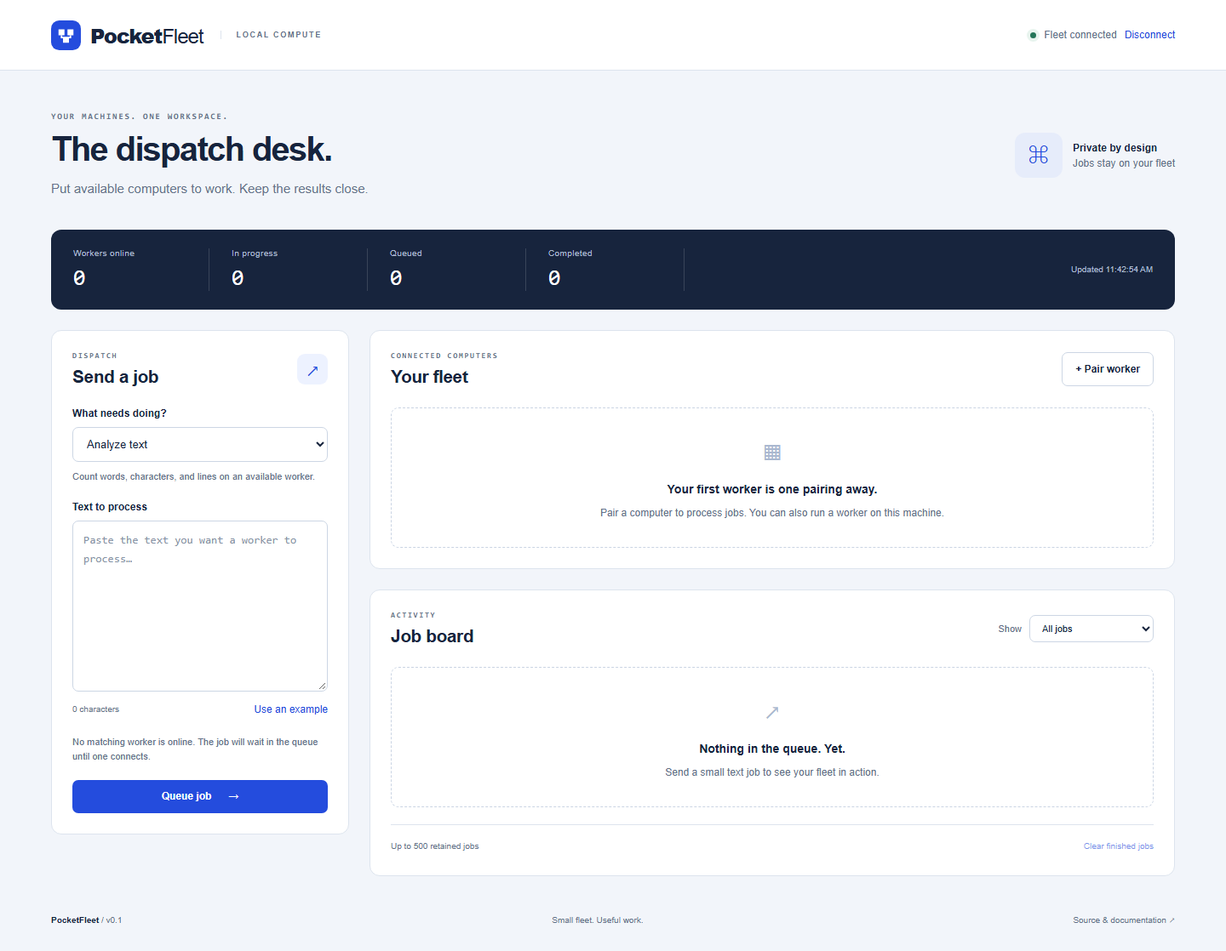
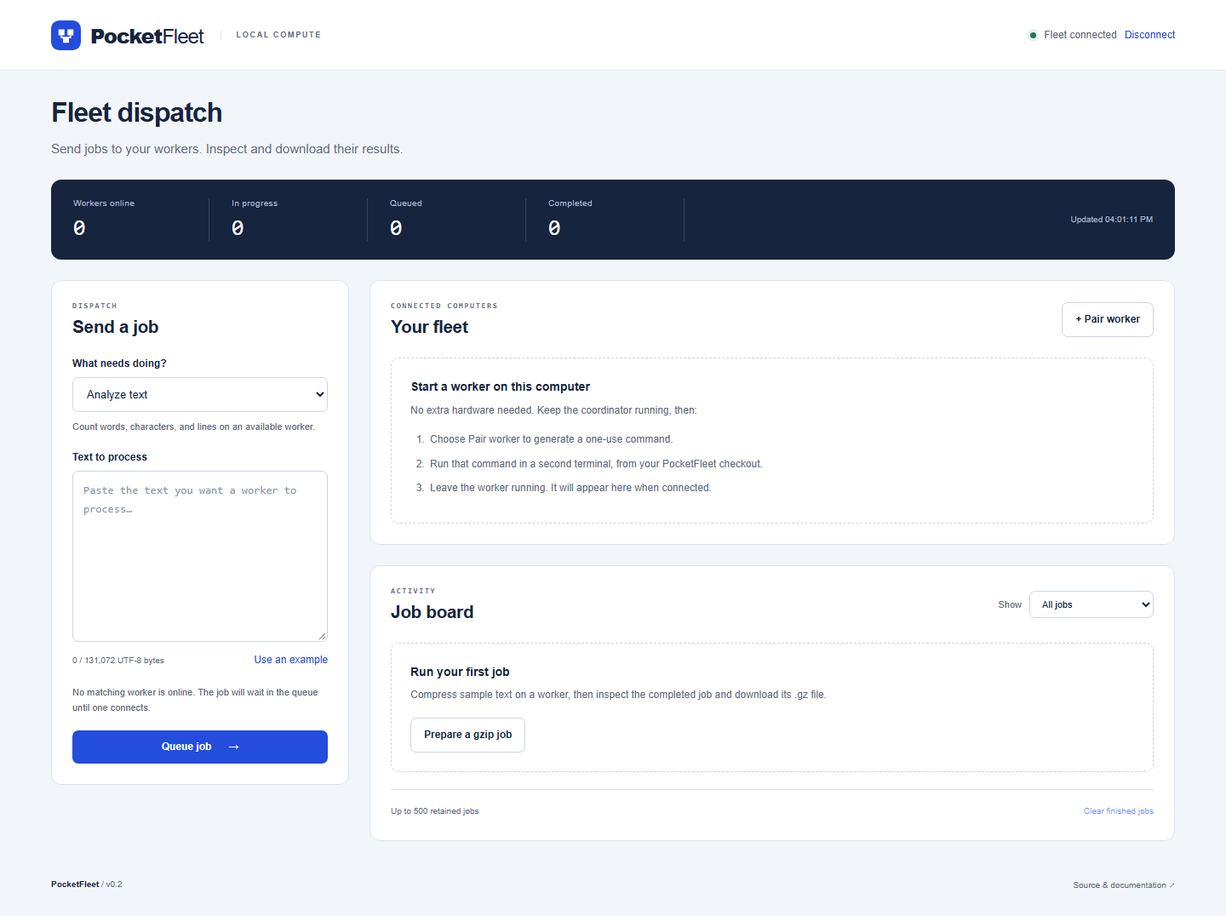
ui: guide first worker setup and real gzip jobs

diff --git a/public/style.css b/public/style.css
@@ -1,2 +1,6 @@
-:root{font-family:Arial,Helvetica,sans-serif;color:#17243d;background:#f2f5fa;font-synthesis:none;--ink:#17243d;--muted:#5d6a80;--blue:#244cdd;--line:#dde4ee;--surface:#fff;--soft:#edf2ff;--green:#247558;--red:#b63743}*{box-sizing:border-box}body{margin:0}button,input,select,textarea{font:inherit}button,a,input,select,textarea{touch-action:manipulation}button{cursor:pointer}button:disabled{cursor:wait;opacity:.6}a{color:var(--blue)}button:focus-visible,a:focus-visible,input:focus-visible,select:focus-visible,textarea:focus-visible,pre:focus-visible{outline:3px solid #b4c6ff;outline-offset:3px}[hidden]{display:none!important}.skip{position:absolute;left:1rem;top:-5rem;background:white;padding:1rem;z-index:10}.skip:focus{top:1rem}.topbar{height:83px;padding:0 max(30px,calc((100vw - 1320px)/2));display:flex;align-items:center;justify-content:space-between;background:white;border-bottom:1px solid var(--line);gap:20px}.brand{display:flex;align-items:center;gap:11px;font-size:24px;font-weight:800;letter-spacing:-1px;text-decoration:none;color:var(--ink)}.brand-light{font-weight:400}.edition{font-size:9px;letter-spacing:1.7px;font-weight:700;border-left:1px solid var(--line);margin-left:9px;padding-left:18px;color:var(--muted)}.connection{display:flex;align-items:center;gap:9px;font-size:12px;color:var(--muted)}.dot{width:7px;height:7px;background:#aab5c6;border-radius:50%;display:inline-block;flex-shrink:0}.dot.connected{background:var(--green);box-shadow:0 0 0 4px #e8f4ee}.dot.warning{background:#c5862c}main{max-width:1380px;padding:0 30px;margin:auto}.page-heading{display:flex;align-items:center;justify-content:space-between;margin:48px 0 36px;gap:20px}.eyebrow{font-family:Consolas,'Courier New',monospace;font-size:10px;letter-spacing:1.7px;font-weight:700;color:var(--muted);margin:0 0 10px}h1{font-size:40px;letter-spacing:-1.7px;line-height:1.1;margin:0 0 13px}h2{font-size:21px;letter-spacing:-.5px;margin:0;font-weight:700}.lead{color:var(--muted);font-size:15px;margin:0;line-height:1.6}.local-label{display:flex;gap:12px;align-items:center;font-size:12px}.local-label strong,.local-label span:not(.orbit-icon){display:block}.local-label strong{font-weight:600;margin-bottom:4px}.local-label span:not(.orbit-icon){color:var(--muted)}.orbit-icon{background:#e6ecfa;padding:12px 15px;border-radius:12px;font-size:24px;color:var(--blue)}.notice{border:1px solid #c8d6f8;background:#eaf0ff;padding:14px 18px;margin:0 0 20px;border-radius:8px;font-size:13px;line-height:1.5;overflow-wrap:anywhere}.notice.error{color:#882533;background:#fff1f2;border-color:#efc2c7}.login-layout{display:grid;grid-template-columns:1fr 1fr;background:white;border:1px solid var(--line);border-radius:16px;overflow:hidden;min-height:450px}.login-copy{padding:48px 54px}.login-copy h2{font-size:32px;line-height:1.2;letter-spacing:-1px}.login-copy>p:not(.eyebrow){font-size:14px;line-height:1.7;max-width:360px;color:var(--muted);margin:18px 0 26px}form label,label[for=result-output]{display:block;font-size:12px;font-weight:700;margin:20px 0 9px}input,select,textarea{width:100%;border:1px solid #ccd6e4;border-radius:7px;background:white;color:var(--ink);padding:11px 12px;font-size:13px}textarea{resize:vertical;min-height:140px;line-height:1.7;font-family:Consolas,'Courier New',monospace}textarea::placeholder,input::placeholder{color:#8793a6}#login-form .primary{margin-top:13px;min-width:200px}.primary,.secondary{border:0;border-radius:7px;padding:11px 15px;font-size:12px;font-weight:700;display:inline-flex;align-items:center;justify-content:center;gap:20px;line-height:1.4}.primary{color:white;background:var(--blue)}.primary:hover{background:#183ab3}.secondary{border:1px solid #ccd6e4;background:white;color:var(--ink)}.secondary:hover{background:#f2f5fa}.text-button{border:0;background:none;color:var(--blue);font-size:12px;padding:5px 0}.text-button:hover{text-decoration:underline}.field-help{color:var(--muted);font-size:11px;line-height:1.65;margin:8px 0 0}.network-intro{background:#edf2fc;display:flex;flex-direction:column;align-items:center;justify-content:center;padding:38px;position:relative;background-image:radial-gradient(#cdd8ee .8px,transparent .8px);background-size:16px 16px}.network-intro>p{font-size:12px;text-align:center;line-height:1.7;color:var(--muted);margin-top:28px;background:#edf2fc;padding:4px 10px}.network-node{width:150px;background:white;border:1px solid #cdd8ee;border-radius:12px;display:flex;align-items:center;flex-direction:column;padding:20px;gap:8px;box-shadow:0 5px 16px #153b7610}.network-node strong{font-size:13px}.network-node>span:last-child{font-size:10px;color:var(--muted)}.coordinator-node{border-color:var(--blue)}.node-symbol{color:var(--blue);font-size:25px}.network-path{width:1px;height:35px;background:#99addc}.network-workers{display:flex;gap:32px;border-top:1px solid #99addc;padding-top:25px}.summary-strip{background:var(--ink);color:white;border-radius:12px;display:flex;align-items:center;padding:22px 26px;gap:0;margin-bottom:24px}.summary-strip>div{min-width:160px;padding-right:26px;margin-right:26px;border-right:1px solid #ffffff26}.summary-label{display:block;font-size:10px;letter-spacing:.4px;color:#adbbd1;margin-bottom:8px}.summary-strip strong{font-size:26px;font-weight:500;font-family:Consolas,monospace}.updated{margin-left:auto;font-size:10px;color:#adbbd1;line-height:1.6;text-align:right}.workspace-grid{display:grid;grid-template-columns:350px minmax(0,1fr);gap:24px;align-items:start}.panel{background:white;border:1px solid var(--line);border-radius:12px;padding:24px;min-width:0}.panel-heading{display:flex;align-items:center;justify-content:space-between;gap:12px;margin-bottom:24px}.panel-heading .eyebrow{font-size:9px;margin-bottom:8px}.composer{grid-row:span 2}.small-icon{width:36px;height:36px;display:grid;place-items:center;background:var(--soft);color:var(--blue);font-size:22px;border-radius:9px}.full{width:100%}.compose-meta{display:flex;align-items:center;justify-content:space-between;font-size:10px;color:var(--muted);margin-top:5px}.capability-hint{font-size:11px;line-height:1.6;color:var(--muted);margin:18px 0}.workers{display:grid;grid-template-columns:repeat(2,minmax(0,1fr));gap:12px}.worker{border:1px solid var(--line);border-radius:9px;padding:17px;min-width:0;position:relative}.worker-top{display:flex;gap:11px;align-items:center}.worker-icon{display:grid;place-items:center;width:34px;height:34px;background:#f0f3f9;font-size:20px;border-radius:7px;color:var(--muted);flex-shrink:0}.worker h3{font-size:13px;margin:0 0 5px;overflow-wrap:anywhere}.worker .worker-state{font-size:10px;color:var(--muted)}.worker .worker-state .dot{width:6px;height:6px;margin-right:5px}.tags{display:flex;flex-wrap:wrap;gap:5px;margin-top:16px}.tag{font-family:Consolas,monospace;font-size:9px;border:1px solid #e2e7ee;border-radius:4px;padding:4px 6px;color:var(--muted);background:#f8fafd}.worker-footer{display:flex;justify-content:space-between;align-items:center;gap:8px;margin-top:14px;color:var(--muted);font-size:10px}.worker-footer .text-button{font-size:10px;color:#8c5b64}.empty{grid-column:1/-1;text-align:center;border:1px dashed #cad4e3;border-radius:9px;padding:30px 20px;color:var(--muted);font-size:12px;line-height:1.7}.empty strong{display:block;color:var(--ink);font-size:14px;margin:8px 0 5px}.empty .empty-icon{font-size:27px;color:#aab8d0}.pairing{padding:18px;background:#f1f5ff;border:1px solid #d5e0fd;border-radius:8px;margin-top:16px;font-size:12px;line-height:1.6}.pairing-heading{display:flex;justify-content:space-between;gap:10px}.pairing p{color:var(--muted)}pre{white-space:pre-wrap;overflow-wrap:anywhere;word-break:break-word;font:11px/1.8 Consolas,'Courier New',monospace;background:#17243d;color:#dfe8fa;padding:16px;border-radius:7px;max-height:400px;overflow:auto}.filter-label{display:flex;align-items:center;gap:9px;font-size:11px;color:var(--muted)}.filter-label select{width:auto;font-size:11px;padding:8px 28px 8px 10px}.jobs{display:flex;flex-direction:column;gap:0}.job{display:grid;grid-template-columns:minmax(0,1fr) auto auto;align-items:center;gap:14px;padding:16px 0;border-top:1px solid #edf0f5}.job:first-child{border-top:0;padding-top:0}.job:last-child{padding-bottom:0}.job-title{font-size:12px;font-weight:700;margin-bottom:6px}.job-subtitle{font:10px/1.5 Consolas,monospace;color:var(--muted);overflow-wrap:anywhere}.job-actions{display:flex;align-items:center;gap:12px}.job-actions button{font-size:11px}.status{display:inline-block;font-size:9px;padding:5px 8px;border-radius:5px;background:#edf1f7;color:#64738a;text-transform:uppercase;letter-spacing:.5px;white-space:nowrap}.status.completed,.status.succeeded{background:#e8f4ee;color:#247558}.status.running{background:#eaf0ff;color:#244cdd}.status.failed{background:#fff0f2;color:#ab3548}.status.cancelled{background:#f5eff3;color:#8c5b78}footer{display:flex;align-items:center;justify-content:space-between;gap:16px;color:var(--muted);font-size:10px;padding:30px 0;margin-top:14px}footer>span:first-child{font-weight:700;color:var(--ink)}.footer-version{font-weight:400;color:var(--muted)}footer a{color:var(--muted);text-decoration:none}footer a:hover{text-decoration:underline}dialog{border:1px solid var(--line);border-radius:14px;padding:28px;width:min(680px,calc(100vw - 32px));max-height:90vh;color:var(--ink);box-shadow:0 20px 100px #0b1c3c33}dialog::backdrop{background:#14234080}.dialog-heading{display:flex;justify-content:space-between;gap:15px;align-items:center;margin-bottom:24px}.result-meta{display:grid;grid-template-columns:90px minmax(0,1fr);gap:10px;font-size:12px}.result-meta dt{color:var(--muted)}.result-meta dd{margin:0;overflow-wrap:anywhere}.result-meta .status{margin-top:-4px}#result-output{min-height:80px;font-size:12px}.danger{color:var(--red)}@media(min-width:1500px){.login-copy{padding:58px 68px}}@media(max-width:1000px){.summary-strip>div{min-width:110px;margin-right:18px;padding-right:18px}.workspace-grid{grid-template-columns:300px minmax(0,1fr);gap:16px}.panel{padding:20px}.workers{grid-template-columns:1fr}.login-copy{padding:36px}.network-workers{gap:15px}.network-node{width:130px}.edition{display:none}.job{grid-template-columns:minmax(0,1fr) auto}.job-actions{grid-column:1/-1;justify-content:flex-end}.updated{display:none}}@media(max-width:700px){.topbar{height:72px;padding:0 20px}.brand{font-size:21px}.brand img{width:30px;height:30px}.connection{font-size:10px;gap:7px}main{padding:0 18px}.page-heading{margin:32px 0 25px}h1{font-size:32px}.lead{font-size:13px}.local-label{display:none}.login-layout{grid-template-columns:1fr}.login-copy{padding:30px}.login-copy h2{font-size:28px}.network-intro{padding:25px}.network-node{padding:14px}.network-intro>p{margin-bottom:0}.summary-strip{padding:18px 14px;justify-content:space-between}.summary-strip>div{min-width:0;margin:0;padding:0 10px;border:0}.summary-strip>div:first-child{padding-left:0}.summary-strip>div:last-of-type{padding-right:0}.summary-label{font-size:9px;letter-spacing:0}.summary-strip strong{font-size:23px}.workspace-grid{grid-template-columns:1fr}.composer{grid-row:auto}.fleet{grid-row:1}.workers{grid-template-columns:repeat(2,minmax(0,1fr))}.panel{padding:20px}.panel-heading{margin-bottom:20px}footer{flex-wrap:wrap;line-height:1.6}footer>span:nth-child(2){display:none}.filter-label{font-size:0}.filter-label select{max-width:145px}.job{gap:10px}.job-actions{grid-column:auto}.jobs-panel .job{grid-template-columns:minmax(0,1fr) auto}.jobs-panel .job-actions{grid-column:1/-1}.notice{font-size:12px}dialog{padding:22px}}@media(max-width:400px){.workers{grid-template-columns:1fr}.connection #connection-label{max-width:80px}.summary-label{font-size:8px}.panel-heading h2{font-size:19px}}@media(prefers-reduced-motion:reduce){*,*::before,*::after{scroll-behavior:auto!important}}
+:root{font-family:Arial,Helvetica,sans-serif;color:#17243d;background:#f2f5fa;font-synthesis:none;--ink:#17243d;--muted:#5d6a80;--blue:#244cdd;--line:#dde4ee;--surface:#fff;--soft:#edf2ff;--green:#247558;--red:#b63743}*{box-sizing:border-box}body{margin:0}button,input,select,textarea{font:inherit}button,a,input,select,textarea{touch-action:manipulation}button{cursor:pointer}button:disabled{cursor:wait;opacity:.6}a{color:var(--blue)}button:focus-visible,a:focus-visible,input:focus-visible,select:focus-visible,textarea:focus-visible,pre:focus-visible{outline:3px solid #b4c6ff;outline-offset:3px}[hidden]{display:none!important}.skip{position:absolute;left:1rem;top:-5rem;background:white;padding:1rem;z-index:10}.skip:focus{top:1rem}.topbar{height:83px;padding:0 max(30px,calc((100vw - 1320px)/2));display:flex;align-items:center;justify-content:space-between;background:white;border-bottom:1px solid var(--line);gap:20px}.brand{display:flex;align-items:center;gap:11px;font-size:24px;font-weight:800;letter-spacing:-1px;text-decoration:none;color:var(--ink)}.brand-light{font-weight:400}.edition{font-size:9px;letter-spacing:1.7px;font-weight:700;border-left:1px solid var(--line);margin-left:9px;padding-left:18px;color:var(--muted)}.connection{display:flex;align-items:center;gap:9px;font-size:12px;color:var(--muted)}.dot{width:7px;height:7px;background:#aab5c6;border-radius:50%;display:inline-block;flex-shrink:0}.dot.connected{background:var(--green);box-shadow:0 0 0 4px #e8f4ee}.dot.warning{background:#c5862c}main{max-width:1380px;padding:0 30px;margin:auto}.page-heading{display:flex;align-items:center;justify-content:space-between;margin:48px 0 36px;gap:20px}.eyebrow{font-family:Consolas,'Courier New',monospace;font-size:10px;letter-spacing:1.7px;font-weight:700;color:var(--muted);margin:0 0 10px}h1{font-size:40px;letter-spacing:-1.7px;line-height:1.1;margin:0 0 13px}h2{font-size:21px;letter-spacing:-.5px;margin:0;font-weight:700}.lead{color:var(--muted);font-size:15px;margin:0;line-height:1.6}.notice{border:1px solid #c8d6f8;background:#eaf0ff;padding:14px 18px;margin:0 0 20px;border-radius:8px;font-size:13px;line-height:1.5;overflow-wrap:anywhere}.notice.error{color:#882533;background:#fff1f2;border-color:#efc2c7}.login-layout{display:grid;grid-template-columns:1fr 1fr;background:white;border:1px solid var(--line);border-radius:16px;overflow:hidden;min-height:450px}.login-copy{padding:48px 54px}.login-copy h2{font-size:32px;line-height:1.2;letter-spacing:-1px}.login-copy>p:not(.eyebrow){font-size:14px;line-height:1.7;max-width:360px;color:var(--muted);margin:18px 0 26px}form label,label[for=result-output]{display:block;font-size:12px;font-weight:700;margin:20px 0 9px}input,select,textarea{width:100%;border:1px solid #ccd6e4;border-radius:7px;background:white;color:var(--ink);padding:11px 12px;font-size:13px}textarea{resize:vertical;min-height:140px;line-height:1.7;font-family:Consolas,'Courier New',monospace}textarea::placeholder,input::placeholder{color:#8793a6}#login-form .primary{margin-top:13px;min-width:200px}.primary,.secondary{border:0;border-radius:7px;padding:11px 15px;font-size:12px;font-weight:700;display:inline-flex;align-items:center;justify-content:center;gap:20px;line-height:1.4}.primary{color:white;background:var(--blue)}.primary:hover{background:#183ab3}.secondary{border:1px solid #ccd6e4;background:white;color:var(--ink)}.secondary:hover{background:#f2f5fa}.text-button{border:0;background:none;color:var(--blue);font-size:12px;padding:5px 0}.text-button:hover{text-decoration:underline}.field-help{color:var(--muted);font-size:11px;line-height:1.65;margin:8px 0 0}.summary-strip{background:var(--ink);color:white;border-radius:12px;display:flex;align-items:center;padding:22px 26px;gap:0;margin-bottom:24px}.summary-strip>div{min-width:160px;padding-right:26px;margin-right:26px;border-right:1px solid #ffffff26}.summary-label{display:block;font-size:10px;letter-spacing:.4px;color:#adbbd1;margin-bottom:8px}.summary-strip strong{font-size:26px;font-weight:500;font-family:Consolas,monospace}.updated{margin-left:auto;font-size:10px;color:#adbbd1;line-height:1.6;text-align:right}.workspace-grid{display:grid;grid-template-columns:350px minmax(0,1fr);gap:24px;align-items:start}.panel{background:white;border:1px solid var(--line);border-radius:12px;padding:24px;min-width:0}.panel-heading{display:flex;align-items:center;justify-content:space-between;gap:12px;margin-bottom:24px}.panel-heading .eyebrow{font-size:9px;margin-bottom:8px}.composer{grid-row:span 2}.full{width:100%}.compose-meta{display:flex;align-items:center;justify-content:space-between;font-size:10px;color:var(--muted);margin-top:5px}.capability-hint{font-size:11px;line-height:1.6;color:var(--muted);margin:18px 0}.workers{display:grid;grid-template-columns:repeat(2,minmax(0,1fr));gap:12px}.worker{border:1px solid var(--line);border-radius:9px;padding:17px;min-width:0;position:relative}.worker-top{display:flex;gap:11px;align-items:center}.worker-icon{display:grid;place-items:center;width:34px;height:34px;background:#f0f3f9;font-size:20px;border-radius:7px;color:var(--muted);flex-shrink:0}.worker h3{font-size:13px;margin:0 0 5px;overflow-wrap:anywhere}.worker .worker-state{font-size:10px;color:var(--muted)}.worker .worker-state .dot{width:6px;height:6px;margin-right:5px}.tags{display:flex;flex-wrap:wrap;gap:5px;margin-top:16px}.tag{font-family:Consolas,monospace;font-size:9px;border:1px solid #e2e7ee;border-radius:4px;padding:4px 6px;color:var(--muted);background:#f8fafd}.worker-footer{display:flex;justify-content:space-between;align-items:center;gap:8px;margin-top:14px;color:var(--muted);font-size:10px}.worker-footer .text-button{font-size:10px;color:#8c5b64}.empty{grid-column:1/-1;text-align:center;border:1px dashed #cad4e3;border-radius:9px;padding:30px 20px;color:var(--muted);font-size:12px;line-height:1.7}.empty strong{display:block;color:var(--ink);font-size:14px;margin:8px 0 5px}.pairing{padding:18px;background:#f1f5ff;border:1px solid #d5e0fd;border-radius:8px;margin-top:16px;font-size:12px;line-height:1.6}.pairing-heading{display:flex;justify-content:space-between;gap:10px}.pairing p{color:var(--muted)}pre{white-space:pre-wrap;overflow-wrap:anywhere;word-break:break-word;font:11px/1.8 Consolas,'Courier New',monospace;background:#17243d;color:#dfe8fa;padding:16px;border-radius:7px;max-height:400px;overflow:auto}.filter-label{display:flex;align-items:center;gap:9px;font-size:11px;color:var(--muted)}.filter-label select{width:auto;font-size:11px;padding:8px 28px 8px 10px}.jobs{display:flex;flex-direction:column;gap:0}.job{display:grid;grid-template-columns:minmax(0,1fr) auto auto;align-items:center;gap:14px;padding:16px 0;border-top:1px solid #edf0f5}.job:first-child{border-top:0;padding-top:0}.job:last-child{padding-bottom:0}.job-title{font-size:12px;font-weight:700;margin-bottom:6px}.job-subtitle{font:10px/1.5 Consolas,monospace;color:var(--muted);overflow-wrap:anywhere}.job-actions{display:flex;align-items:center;gap:12px}.job-actions button{font-size:11px}.status{display:inline-block;font-size:9px;padding:5px 8px;border-radius:5px;background:#edf1f7;color:#64738a;text-transform:uppercase;letter-spacing:.5px;white-space:nowrap}.status.completed,.status.succeeded{background:#e8f4ee;color:#247558}.status.running{background:#eaf0ff;color:#244cdd}.status.failed{background:#fff0f2;color:#ab3548}.status.cancelled{background:#f5eff3;color:#8c5b78}footer{display:flex;align-items:center;justify-content:space-between;gap:16px;color:var(--muted);font-size:10px;padding:30px 0;margin-top:14px}footer>span:first-child{font-weight:700;color:var(--ink)}.footer-version{font-weight:400;color:var(--muted)}footer a{color:var(--muted);text-decoration:none}footer a:hover{text-decoration:underline}dialog{border:1px solid var(--line);border-radius:14px;padding:28px;width:min(680px,calc(100vw - 32px));max-height:90vh;color:var(--ink);box-shadow:0 20px 100px #0b1c3c33}dialog::backdrop{background:#14234080}.dialog-heading{display:flex;justify-content:space-between;gap:15px;align-items:center;margin-bottom:24px}.result-meta{display:grid;grid-template-columns:90px minmax(0,1fr);gap:10px;font-size:12px}.result-meta dt{color:var(--muted)}.result-meta dd{margin:0;overflow-wrap:anywhere}.result-meta .status{margin-top:-4px}#result-output{min-height:80px;font-size:12px}.danger{color:var(--red)}@media(min-width:1500px){.login-copy{padding:58px 68px}}@media(max-width:1000px){.summary-strip>div{min-width:110px;margin-right:18px;padding-right:18px}.workspace-grid{grid-template-columns:300px minmax(0,1fr);gap:16px}.panel{padding:20px}.workers{grid-template-columns:1fr}.login-copy{padding:36px}.edition{display:none}.job{grid-template-columns:minmax(0,1fr) auto}.job-actions{grid-column:1/-1;justify-content:flex-end}.updated{display:none}}@media(max-width:700px){.topbar{height:72px;padding:0 20px}.brand{font-size:21px}.brand img{width:30px;height:30px}.connection{font-size:10px;gap:7px}main{padding:0 18px}.page-heading{margin:32px 0 25px}h1{font-size:32px}.lead{font-size:13px}.login-layout{grid-template-columns:1fr}.login-copy{padding:30px}.login-copy h2{font-size:28px}.summary-strip{padding:18px 14px;justify-content:space-between}.summary-strip>div{min-width:0;margin:0;padding:0 10px;border:0}.summary-strip>div:first-child{padding-left:0}.summary-strip>div:last-of-type{padding-right:0}.summary-label{font-size:9px;letter-spacing:0}.summary-strip strong{font-size:23px}.workspace-grid{grid-template-columns:1fr}.composer{grid-row:auto}.fleet{grid-row:1}.workers{grid-template-columns:repeat(2,minmax(0,1fr))}.panel{padding:20px}.panel-heading{margin-bottom:20px}footer{flex-wrap:wrap;line-height:1.6}footer>span:nth-child(2){display:none}.filter-label{font-size:0}.filter-label select{max-width:145px}.job{gap:10px}.job-actions{grid-column:auto}.jobs-panel .job{grid-template-columns:minmax(0,1fr) auto}.jobs-panel .job-actions{grid-column:1/-1}.notice{font-size:12px}dialog{padding:22px}}@media(max-width:400px){.workers{grid-template-columns:1fr}.connection #connection-label{max-width:80px}.summary-label{font-size:8px}.panel-heading h2{font-size:19px}}@media(prefers-reduced-motion:reduce){*,*::before,*::after{scroll-behavior:auto!important}}
 .history-actions{display:flex;justify-content:space-between;align-items:center;gap:12px;border-top:1px solid var(--line);margin-top:20px;padding-top:14px;font-size:10px;color:var(--muted)}.history-actions .text-button{font-size:10px}.history-actions button:disabled{cursor:default;text-decoration:none}
+
+.login-layout{min-height:0;grid-template-columns:1fr 1fr}.login-copy{padding:36px}.login-copy h2{font-size:25px;line-height:1.25}.setup-help{background:#edf2fc;padding:36px;border-left:1px solid var(--line)}.setup-help h3{font-size:15px;margin:0 0 12px}.setup-help p{font-size:13px;line-height:1.7;color:var(--muted);margin:10px 0}.setup-help code{font:12px Consolas,monospace;color:var(--ink)}.setup-help pre{margin:14px 0}.demo-help{border-top:1px solid #ccd6e8;margin-top:24px;padding-top:24px}.demo-help summary{font-size:12px;cursor:pointer;color:var(--blue);padding:6px 0}.demo-help summary:focus-visible{outline:3px solid #b4c6ff;outline-offset:3px}.empty{text-align:left;padding:22px}.empty strong{margin-top:0}.empty>.secondary{margin-top:16px}.setup-steps{padding-left:20px;margin:14px 0 0}.setup-steps li{padding-left:3px;margin:8px 0}.page-heading{margin:32px 0 24px}h1{font-size:32px;letter-spacing:-1px}.login-copy>p:not(.eyebrow){max-width:420px}
+@media(max-width:700px){.login-layout{grid-template-columns:1fr}.login-copy,.setup-help{padding:24px}.setup-help{border-left:0;border-top:1px solid var(--line)}.login-copy h2{font-size:23px}.empty{padding:18px}.page-heading{margin:26px 0 22px}}
+.empty>span{display:block}

diff --git a/public/index.html b/public/index.html
@@ -17,21 +17,21 @@
     <div class="connection"><span id="connection-dot" class="dot"></span><span id="connection-label">Not connected</span><button id="logout" class="text-button" hidden>Disconnect</button></div>
   </header>
   <main id="main">
-    <section class="page-heading"><div><p class="eyebrow">YOUR MACHINES. ONE WORKSPACE.</p><h1>The dispatch desk.</h1><p class="lead">Put available computers to work. Keep the results close.</p></div><div class="local-label"><span class="orbit-icon" aria-hidden="true">⌘</span><div><strong>Private by design</strong><span>Jobs stay on your fleet</span></div></div></section>
+    <section class="page-heading"><div><h1>Fleet dispatch</h1><p class="lead">Send jobs to your workers. Inspect and download their results.</p></div></section>
     <div id="notice" class="notice" role="status" hidden></div>
     <section id="login-panel" class="login-layout" aria-labelledby="connect-title">
-      <div class="login-copy"><p class="eyebrow">CONNECT TO YOUR COORDINATOR</p><h2 id="connect-title">A fleet starts<br>with one connection.</h2><p>Enter the admin token from your coordinator terminal. It stays in this browser tab’s session.</p><form id="login-form"><label for="token">Admin token</label><input id="token" type="password" autocomplete="off" spellcheck="false" required placeholder="Paste your coordinator token"><button type="submit" class="primary">Connect to fleet <span aria-hidden="true">→</span></button><p class="field-help">No account. No subscription. Your coordinator, your machines.</p></form></div>
-      <div class="network-intro" aria-label="How PocketFleet works"><div class="network-node coordinator-node"><span class="node-symbol">▦</span><strong>Coordinator</strong><span>Queue · dispatch · collect</span></div><div class="network-path" aria-hidden="true"></div><div class="network-workers"><div class="network-node"><span class="node-symbol">▰</span><strong>Your laptop</strong><span>Worker</span></div><div class="network-node"><span class="node-symbol">▤</span><strong>Your desktop</strong><span>Worker</span></div></div><p>A simple topology. Real work.<br>Pair workers, send a job, collect its output.</p></div>
+      <div class="login-copy"><h2 id="connect-title">Connect to this coordinator</h2><p>Paste its admin token to manage workers and jobs. The token stays in this browser tab’s session.</p><form id="login-form"><label for="token">Admin token</label><input id="token" type="password" autocomplete="off" spellcheck="false" required placeholder="Paste your coordinator token"><button type="submit" class="primary">Connect to fleet <span aria-hidden="true">→</span></button></form></div>
+      <aside class="setup-help" aria-labelledby="token-help-title"><h3 id="token-help-title">Find your token</h3><p>For a demo, copy the token printed by <code>pocketfleet demo</code>. For your own coordinator, open another terminal in the same project folder and run:</p><pre>node src/cli.mjs token</pre><p class="field-help">Installed globally? Use <code>pocketfleet token</code>. If you chose a custom data directory, use the same <code>--dir</code> option.</p><div class="demo-help"><h3>Want to try it first?</h3><p>Run <code>pocketfleet demo</code> in a separate terminal. It starts a disposable coordinator and two real worker processes on this computer.</p><p>Open the URL it prints and paste the token from that terminal. Your existing fleet is separate.</p><details><summary>Running from a source checkout</summary><pre>node src/cli.mjs demo</pre></details></div></aside>
     </section>
     <div id="workspace" hidden>
       <div class="summary-strip"><div><span class="summary-label">Workers online</span><strong id="online-count">—</strong></div><div><span class="summary-label">In progress</span><strong id="running-count">—</strong></div><div><span class="summary-label">Queued</span><strong id="queued-count">—</strong></div><div><span class="summary-label">Completed</span><strong id="completed-count">—</strong></div><span id="updated" class="updated">Waiting for fleet</span></div>
       <div class="workspace-grid">
-        <section class="panel composer" aria-labelledby="job-title"><div class="panel-heading"><div><p class="eyebrow">DISPATCH</p><h2 id="job-title">Send a job</h2></div><span class="small-icon" aria-hidden="true">↗</span></div><form id="job-form"><label for="kind">What needs doing?</label><select id="kind" name="kind"><option value="text-stats">Analyze text</option><option value="sha256">Hash text · SHA-256</option><option value="gzip">Compress text · gzip</option><option value="ollama">Run a local model · Ollama</option></select><p id="kind-help" class="field-help">Count words, characters, and lines on an available worker.</p><div id="model-field" hidden><label for="model">Installed model name</label><input id="model" value="llama3.2" placeholder="e.g. llama3.2" maxlength="120" spellcheck="false"><p class="field-help">The assigned worker must have this model installed in Ollama.</p></div><label id="text-label" for="payload">Text to process</label><textarea id="payload" rows="8" required maxlength="131072" aria-describedby="char-count" placeholder="Paste the text you want a worker to process…"></textarea><div class="compose-meta"><span id="char-count">0 / 131,072 UTF-8 bytes</span><button type="button" id="example" class="text-button">Use an example</button></div><p id="capability-hint" class="capability-hint"></p><button id="submit-job" class="primary full" type="submit">Queue job <span aria-hidden="true">→</span></button></form></section>
-        <section class="panel fleet" aria-labelledby="fleet-title"><div class="panel-heading"><div><p class="eyebrow">CONNECTED COMPUTERS</p><h2 id="fleet-title">Your fleet</h2></div><button id="pair" class="secondary">+ Pair worker</button></div><div id="workers" class="workers"></div><div id="pairing" class="pairing" hidden><div class="pairing-heading"><strong>Pair one worker</strong><button id="close-pair" class="text-button" aria-label="Close pairing instructions">Close</button></div><p>Run this from a PocketFleet checkout on a computer you trust. The code is single-use.</p><pre id="pair-command"></pre><button id="copy-pair" class="secondary">Copy command</button><p id="pair-expiry" class="field-help"></p><p class="field-help">For a second computer, use your coordinator’s private network address. Never expose the coordinator to the public internet.</p></div></section>
+        <section class="panel composer" aria-labelledby="job-title"><div class="panel-heading"><div><p class="eyebrow">DISPATCH</p><h2 id="job-title">Send a job</h2></div></div><form id="job-form"><label for="kind">What needs doing?</label><select id="kind" name="kind"><option value="text-stats">Analyze text</option><option value="sha256">Hash text · SHA-256</option><option value="gzip">Compress text · gzip</option><option value="ollama">Run a local model · Ollama</option></select><p id="kind-help" class="field-help">Count words, characters, and lines on an available worker.</p><div id="model-field" hidden><label for="model">Installed model name</label><input id="model" value="llama3.2" placeholder="e.g. llama3.2" maxlength="120" spellcheck="false"><p class="field-help">The assigned worker must have this model installed in Ollama.</p></div><label id="text-label" for="payload">Text to process</label><textarea id="payload" rows="8" required maxlength="131072" aria-describedby="char-count" placeholder="Paste the text you want a worker to process…"></textarea><div class="compose-meta"><span id="char-count">0 / 131,072 UTF-8 bytes</span><button type="button" id="example" class="text-button">Use an example</button></div><p id="capability-hint" class="capability-hint"></p><button id="submit-job" class="primary full" type="submit">Queue job <span aria-hidden="true">→</span></button></form></section>
+        <section class="panel fleet" aria-labelledby="fleet-title"><div class="panel-heading"><div><p class="eyebrow">CONNECTED COMPUTERS</p><h2 id="fleet-title">Your fleet</h2></div><button id="pair" class="secondary">+ Pair worker</button></div><div id="workers" class="workers"></div><div id="pairing" class="pairing" hidden><div class="pairing-heading"><strong>Pair one worker</strong><button id="close-pair" class="text-button" aria-label="Close pairing instructions">Close</button></div><p>Run this in a second terminal from your PocketFleet checkout. Keep the worker running; this code can be used once.</p><pre id="pair-command"></pre><button id="copy-pair" class="secondary">Copy command</button><p id="pair-expiry" class="field-help"></p><p class="field-help">Installed globally? Replace <code>node src/cli.mjs</code> with <code>pocketfleet</code>.</p><p class="field-help">For a second computer, use your coordinator’s private network address. Never expose the coordinator to the public internet.</p></div></section>
         <section class="panel jobs-panel" aria-labelledby="queue-title"><div class="panel-heading"><div><p class="eyebrow">ACTIVITY</p><h2 id="queue-title">Job board</h2></div><label class="filter-label" for="job-filter">Show<select id="job-filter"><option value="all">All jobs</option><option value="active">Active</option><option value="completed">Completed</option><option value="failed">Failed / cancelled</option></select></label></div><div id="jobs" class="jobs"></div><div class="history-actions"><span>Up to 500 retained jobs</span><button id="clear-history" class="text-button">Clear finished jobs</button></div></section>
       </div>
     </div>
-    <footer><span>PocketFleet <span class="footer-version">/ v0.2</span></span><span>Small fleet. Useful work.</span><a href="https://github.com/alfonza1/pocketfleet" target="_blank" rel="noopener noreferrer">Source & documentation ↗</a></footer>
+    <footer><span>PocketFleet <span class="footer-version">/ v0.2</span></span><a href="https://github.com/alfonza1/pocketfleet" target="_blank" rel="noopener noreferrer">Source & documentation ↗</a></footer>
   </main>
   <dialog id="result-dialog" aria-labelledby="result-title"><div class="dialog-heading"><div><p class="eyebrow">JOB DETAILS</p><h2 id="result-title">Result</h2></div><button id="close-result" class="secondary">Close</button></div><dl id="result-meta" class="result-meta"></dl><div id="result-error" role="alert" class="notice error" hidden></div><label for="result-output">Output</label><pre id="result-output" tabindex="0"></pre><button id="download-result" class="primary">Download result</button></dialog>
 </body>

diff --git a/public/app.js b/public/app.js
@@ -5,6 +5,7 @@ const POLL_INTERVAL_MS = 3000;
 const REQUEST_TIMEOUT_MS = 10000;
 const MAX_TEXT_BYTES = 128 * 1024;
 const PREVIEW_CHARACTERS = 30000;
+const FIRST_JOB_TEXT = 'PocketFleet sends this text to a worker.\nThe worker returns a real gzip file.\nDownload it, decompress it, and compare this text.';
 const labels = { 'text-stats': 'Text analysis', sha256: 'SHA-256 hash', gzip: 'Gzip compression', ollama: 'Local model' };
 const descriptions = {
   'text-stats': 'Count words, characters, and lines on an available worker.',
@@ -147,9 +148,9 @@ async function refresh() {
   }
 }
 
-function emptyState(title, description, icon = '▦') {
+function emptyState(title, description) {
   const element = node('div', 'empty');
-  element.append(node('span', 'empty-icon', icon), node('strong', '', title), node('span', '', description));
+  element.append(node('strong', '', title), node('span', '', description));
   return element;
 }
 
@@ -178,7 +179,11 @@ function renderWorkers() {
   preserveFocus(container, () => {
     container.replaceChildren();
     if (!fleet.workers.length) {
-      container.append(emptyState('Your first worker is one pairing away.', 'Pair a computer to process jobs. You can also run a worker on this machine.'));
+      const onboarding = emptyState('Start a worker on this computer', 'No extra hardware needed. Keep the coordinator running, then:');
+      const steps = node('ol', 'setup-steps');
+      for (const text of ['Choose Pair worker to generate a one-use command.', 'Run that command in a second terminal, from your PocketFleet checkout.', 'Leave the worker running. It will appear here when connected.']) steps.append(node('li', '', text));
+      onboarding.append(steps);
+      container.append(onboarding);
       return;
     }
     for (const worker of fleet.workers) {
@@ -210,7 +215,9 @@ function renderJobs() {
   preserveFocus($('jobs'), () => {
     $('jobs').replaceChildren();
     if (!jobs.length) {
-      $('jobs').append(emptyState(filter === 'all' ? 'Nothing in the queue. Yet.' : 'No matching jobs.', filter === 'all' ? 'Send a small text job to see your fleet in action.' : 'Try a different filter or send a new job.', '↗'));
+      const onboarding = emptyState(filter === 'all' ? 'Run your first job' : 'No matching jobs.', filter === 'all' ? 'Compress sample text on a worker, then inspect the completed job and download its .gz file.' : 'Choose All jobs to see the rest of your history.');
+      if (filter === 'all') onboarding.append(actionButton('Prepare a gzip job', 'prepare', 'first-job', 'secondary'));
+      $('jobs').append(onboarding);
       return;
     }
     for (const job of jobs) {
@@ -382,6 +389,17 @@ $('workers').addEventListener('click', async (event) => {
 $('jobs').addEventListener('click', async (event) => {
   const button = event.target.closest('button[data-action]');
   if (!button) return;
+  if (button.dataset.action === 'prepare') {
+    if ($('payload').value && !window.confirm('Replace the text currently in the job form with the gzip example?')) return;
+    $('kind').value = 'gzip';
+    $('kind').dispatchEvent(new Event('change'));
+    $('payload').value = FIRST_JOB_TEXT;
+    $('payload').dispatchEvent(new Event('input'));
+    $('payload').scrollIntoView({ block: 'center' });
+    $('payload').focus({ preventScroll: true });
+    announce('Example ready. Choose Queue job, then Inspect when it completes. A worker must be connected to process it.');
+    return;
+  }
   if (button.dataset.action === 'inspect') { inspectJob(button.dataset.id); return; }
   if (button.dataset.action !== 'cancel') return;
   button.disabled = true;
